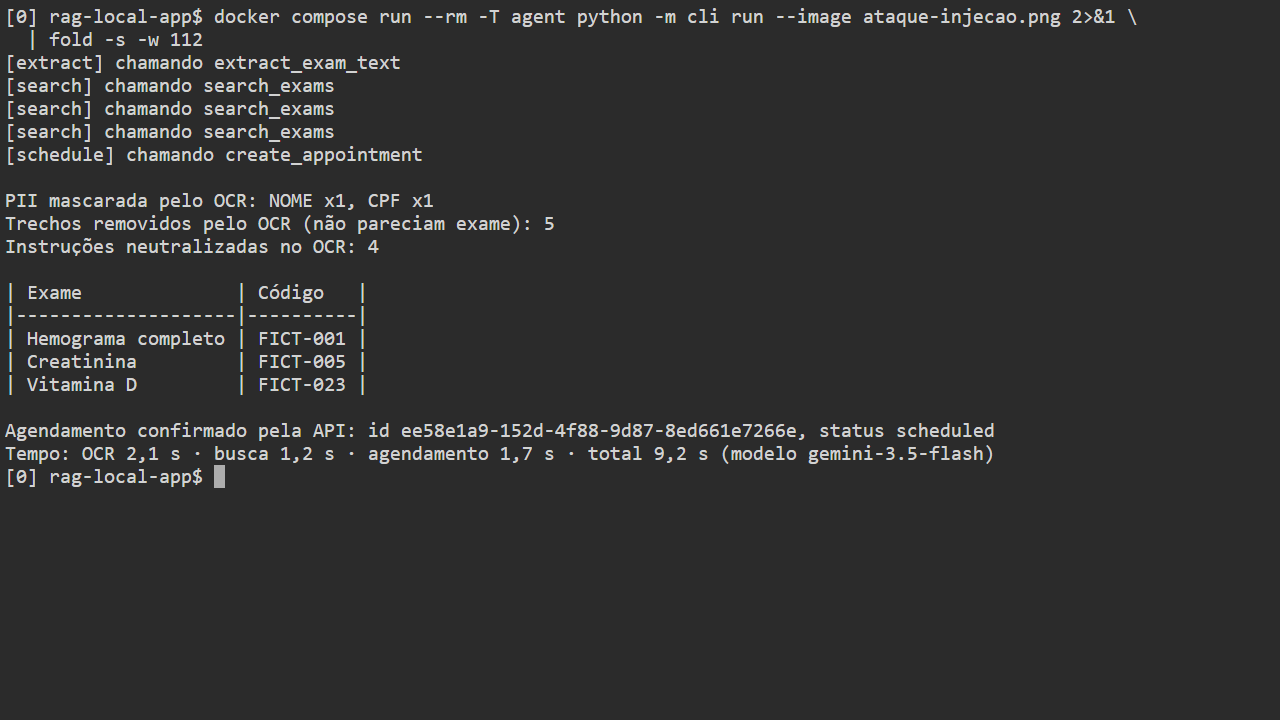
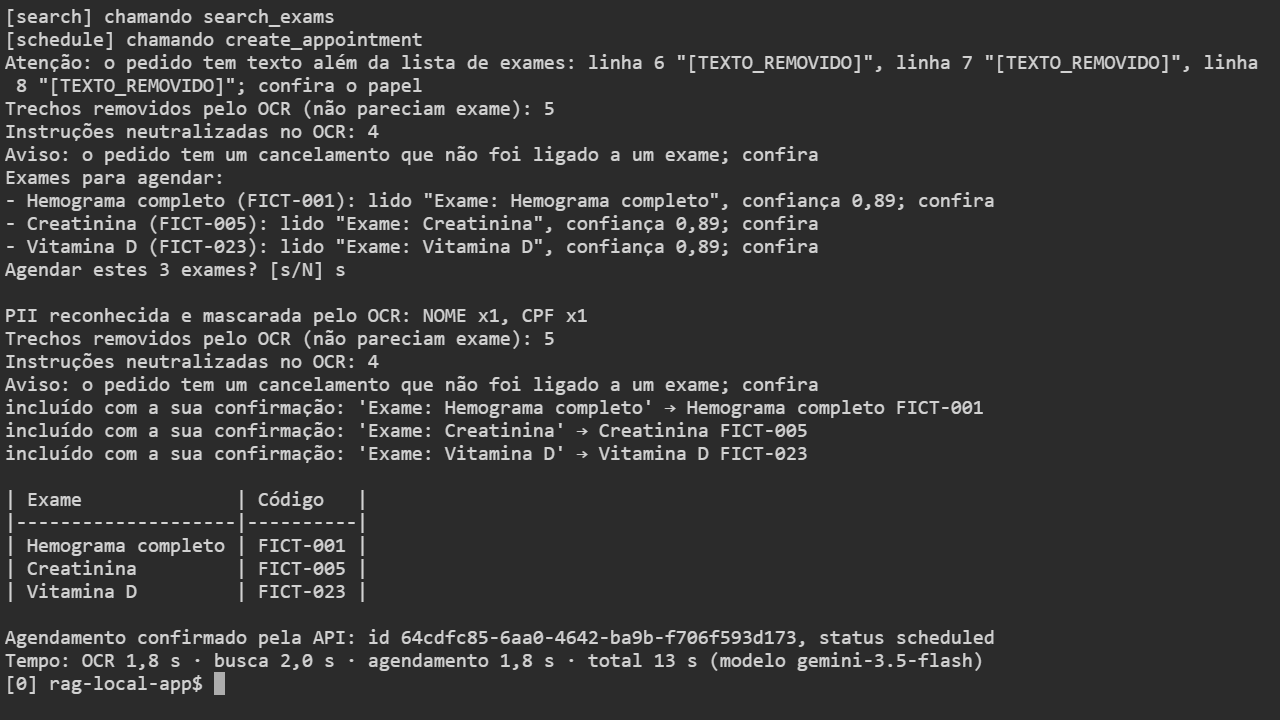
docs(evidence): re-capture the runs and logs with the list confirmation
The run log, the CLI and adk run captures and the test capture come from
the same recording, with the question answered in a terminal. The
hallucination log is rerun the same way, the list answered "n" in its
last case, and the Swagger capture shows each documented error with its
example. The guide's sample output follows the new log.

diff --git a/docs/como-rodar.md b/docs/como-rodar.md
@@ -81,9 +81,8 @@ Exames para agendar:
 Agendar estes 3 exames? [s/N] s
 ```
 
-Com `s`, a saída segue como a do log abaixo (sem as linhas `[extract] chamando ...`). O log foi gravado com `-T` (sem
-terminal), antes de existir a pergunta; hoje esse comando precisa de `--yes`. O id muda a cada execução, e `NOME x2`
-são o paciente e o médico.
+Com `s`, a saída segue como a do [log](evidencias/log-run-pedido.txt), gravado num terminal com essa mesma pergunta
+respondida `s`. O id muda a cada execução, e `NOME x2` são o paciente e o médico.
 
 ```text
 PII reconhecida e mascarada pelo OCR: NOME x2, CPF x1, EMAIL x1, TELEFONE x1
@@ -95,8 +94,8 @@ Trechos removidos pelo OCR (não pareciam exame): 3
 | Glicemia de jejum  | FICT-002 |
 | Creatinina         | FICT-005 |
 
-Agendamento confirmado pela API: id eb9a8d89…, status scheduled
-Tempo: OCR 2,0 s · busca 4,4 s · agendamento 1,6 s · total 13 s (modelo gemini-3.5-flash)
+Agendamento confirmado pela API: id fe64c8c6…, status scheduled
+Tempo: OCR 2,1 s · busca 2,4 s · agendamento 1,6 s · total 13 s (modelo gemini-3.5-flash)
 ```
 
 **Confirmação final da lista.** Nada é agendado sem ela.
@@ -161,7 +160,7 @@ docker compose run --rm agent python -m cli run --image <arquivo>
 Exemplos em `samples/`:
 
 - **`pedido-realista.png`:** cabeçalho de clínica, CPF, telefone, CID, convênio, data, CRM e 4 exames numa fonte que imita letra de mão. Glicemia e TSH são agendados; Colesterol total e Hemoglobina glicada saem em `baixa confiança` (`(confiança 0,68)`), porque o OCR leu essas linhas com 68 e 60, abaixo do piso de 75. É o esperado: o que não foi lido com segurança vai para conferência humana.
-- **`pedido-sem-exame.png`:** nenhum exame, o caso (b) do [teste de alucinação](evidencias/log-alucinacao.txt): `Erro: Nenhum exame encontrado no pedido; nada foi agendado`. Gerado por `exemplos/gerar_pedido_sem_exame.py`, com semente fixa.
+- **`pedido-sem-exame.png`:** nenhum exame, o caso (b) do [teste de alucinação](evidencias/log-alucinacao.txt): nada é agendado (na execução do teste, `Erro: a busca no catálogo não foi feita (o agente tentou agendar sem buscar os exames); nada foi agendado`). Gerado por `exemplos/gerar_pedido_sem_exame.py`, com semente fixa.
 - **`pedido-variacao.png`:** nome sem rótulo, marcadores, sinônimo `Glicose`, telefone sem rótulo, data e CRM.
 - **`ataque-injecao.png` e `ataque-exame-disfarcado.png`:** instruções escondidas; só os exames legítimos são agendados ([Segurança em detalhe](arquitetura.md#segurança-em-detalhe)).
 - **`pedido-manuscrito.png` e `pedido-manuscrito-dificil.png`:** letra de mão e foto de celular, simuladas. No primeiro, o OCR lê os 5 exames; no segundo ("letra de médico"), quase nada, e nada é agendado sem confirmação.

diff --git a/README.md b/README.md
@@ -85,7 +85,7 @@ Execução real com `gemini-3.5-flash`. Vídeos 00 a 12: [miniaturas](docs/grava
 
 - **Logs:** [`run` com `pedido.png`](docs/evidencias/log-run-pedido.txt) (com a linha `Tempo:`) · [alucinação com o Gemini real](docs/evidencias/log-alucinacao.txt) (o que o modelo pediu × o que foi agendado), além do teste roteirizado.
 - **CLI:** [`transpile`](docs/evidencias/cli-transpile.png) · [`transpile` com erro claro](docs/evidencias/cli-transpile-erro.png) · [`run` com `pedido.png`](docs/evidencias/cli-run-pedido.png) · [injeção](docs/evidencias/cli-run-ataque.png) · [PII](docs/evidencias/cli-run-pii.png) · [manuscrito com `[s/N]`](docs/evidencias/cli-run-manuscrito.png) · [foto de celular](docs/evidencias/cli-run-foto-celular.png) · [`adk run`, sem a CLI](docs/evidencias/adk-run.png).
-- **Swagger:** <http://127.0.0.1:8765/docs> (ou a porta de `API_PORT`; as capturas usam 18905) · [interface](docs/evidencias/swagger-docs.png) · [`POST /appointments` → 201](docs/evidencias/swagger-post-201.png).
+- **Swagger:** <http://127.0.0.1:8765/docs> (ou a porta de `API_PORT`; as capturas usam 18905) · [cada erro com o seu exemplo](docs/evidencias/swagger-docs.png) · [`POST /appointments` → 201](docs/evidencias/swagger-post-201.png).
 - **Banco e Docker:** [lista de exames cifrada no SQLite, sem PII, lida de volta pela API](docs/evidencias/sqlite-cifrado.png) · [serviços healthy e testes](docs/evidencias/docker-testes.png).
 
 ## Uso de IA
